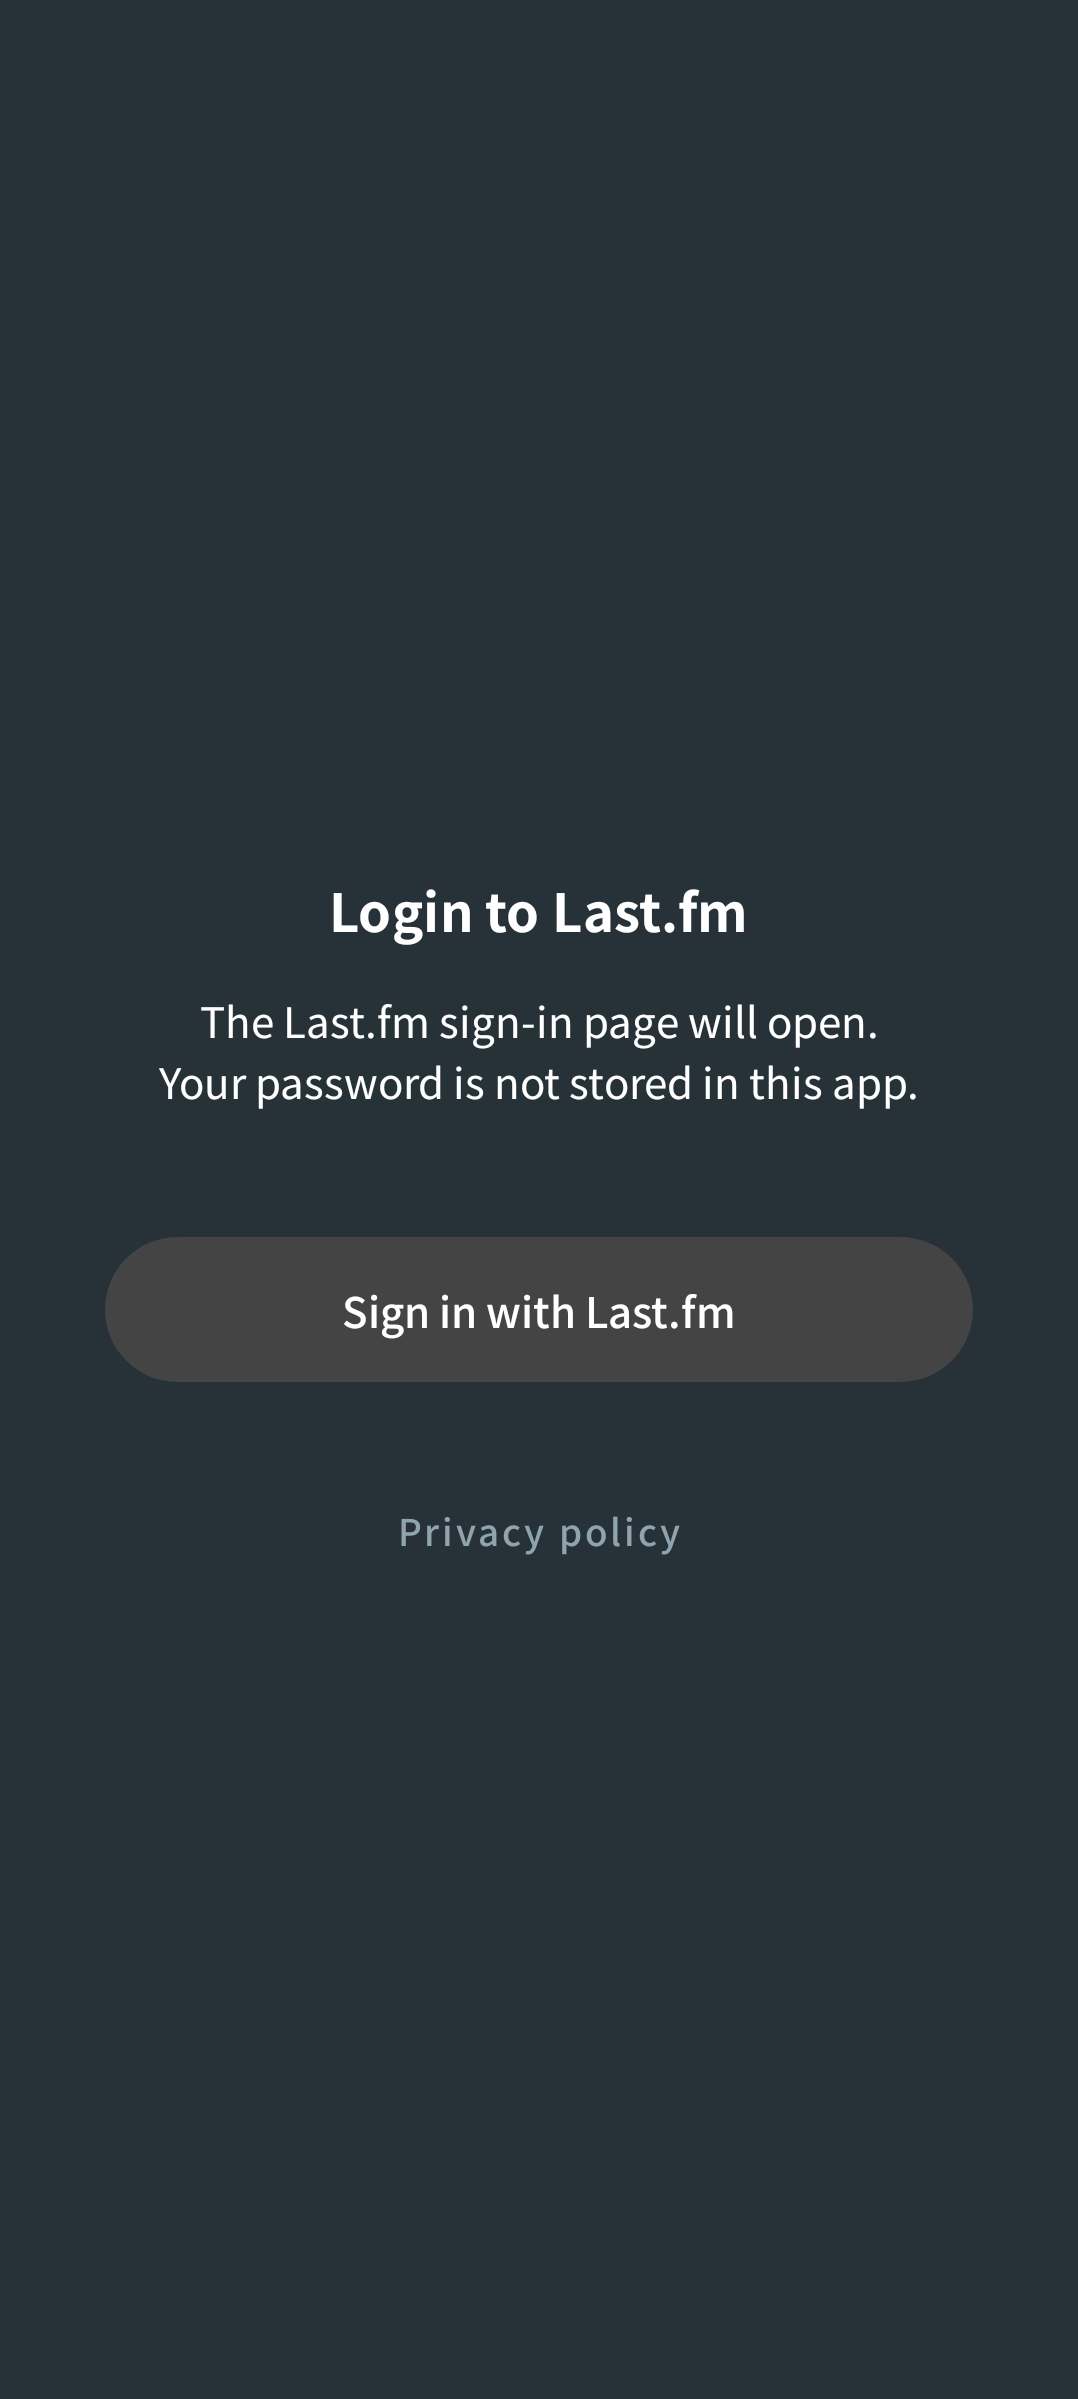
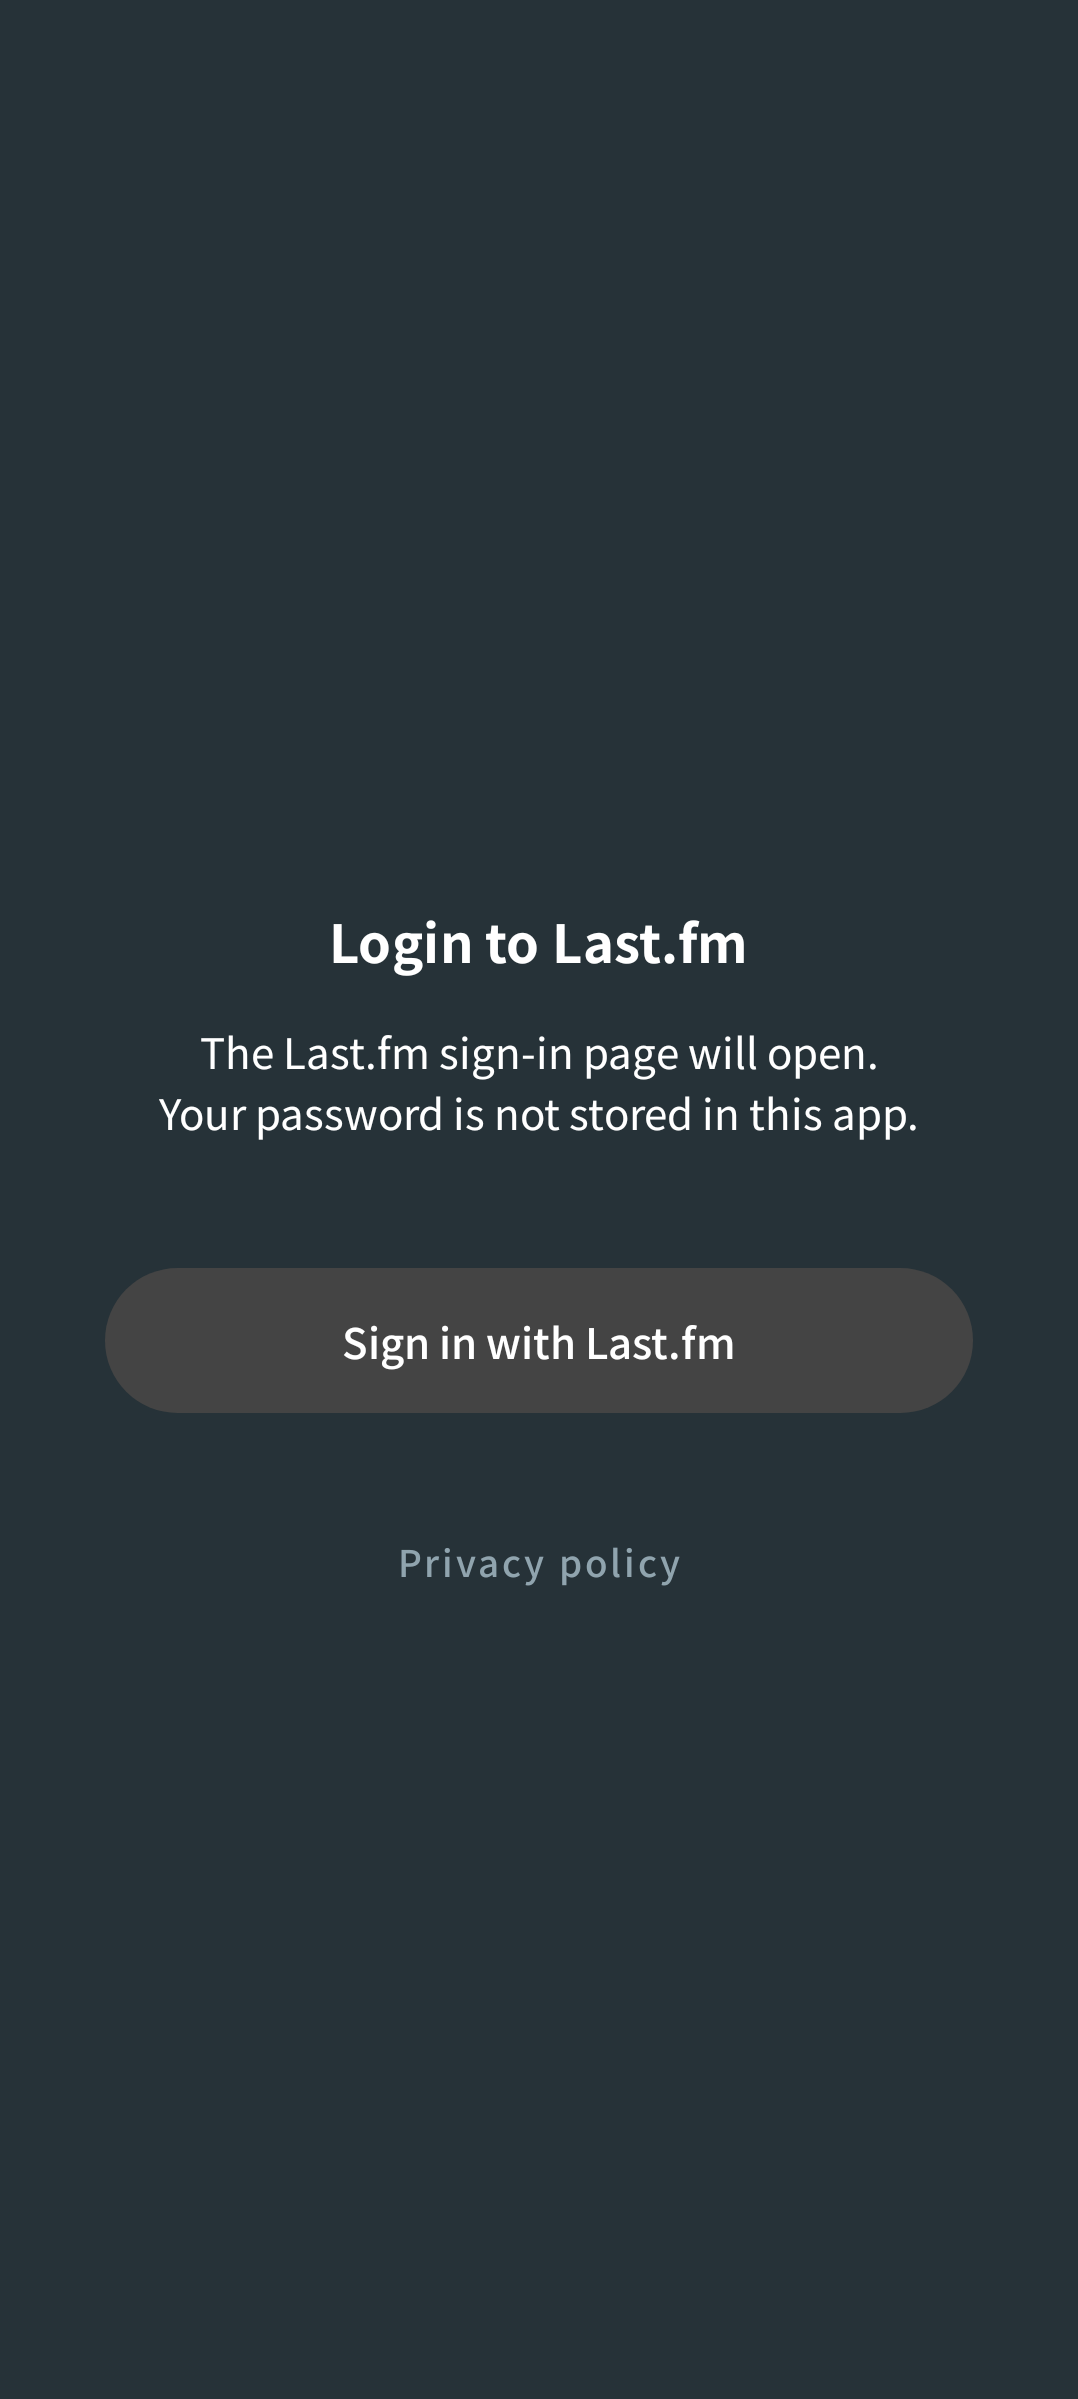
feat(auth): dim LoginScreen behind the Partial Custom Tab
- Add LoginUiState.isWebAuthOpen, set by onWebAuthOpened before the
  Custom Tab is launched and cleared by any launcher result, and draw a
  32% black scrim over LoginScreen while it is true. Chrome does not dim
  the app behind a fixed-height Partial Custom Tab, so the strip above
  the sheet otherwise looks like a rendering glitch.
- Add LastFmWebAuthResult.Closed and emit it from
  CustomTabsWebAuthLauncher's ActivityResult callback when the tab
  finishes, so the scrim is removed both on dismiss and after the App
  Link re-enters MainActivity.
- Move the 24dp top padding from authGraph into LoginScreen so the scrim
  root reaches the top edge of the window; re-record the login goldens
  accordingly and add login_screen_web_auth_open.png.
- Cover the scrim state in LoginViewModelSpec, the Closed result in
  CustomTabsWebAuthLauncherTest and the dimmed layout in LoginScreenTest.
- Describe the scrim and the Closed result in DESIGN.md.

Changed region(s): [[0.0918, 0.3702, 0.9184, 0.5861], [0.5204, 0.6169, 0.6122, 0.6786], [0.3673, 0.6169, 0.4592, 0.6786]]

diff --git a/feature/auth/src/test/java/com/mataku/scrobscrob/auth/ui/viewmodel/LoginViewModelSpec.kt b/feature/auth/src/test/java/com/mataku/scrobscrob/auth/ui/viewmodel/LoginViewModelSpec.kt
@@ -6,6 +6,7 @@ import com.mataku.scrobscrob.data.repository.SessionRepository
 import com.mataku.scrobscrob.test_helper.unit.CoroutinesListener
 import io.kotest.core.spec.style.DescribeSpec
 import io.kotest.matchers.booleans.shouldBeFalse
+import io.kotest.matchers.booleans.shouldBeTrue
 import io.kotest.matchers.collections.shouldBeEmpty
 import io.kotest.matchers.shouldBe
 import io.mockk.coEvery
@@ -93,6 +94,45 @@ class LoginViewModelSpec : DescribeSpec({
       viewModel.onWebAuthResult(LastFmWebAuthResult.Failed)
       viewModel.uiState.value.events shouldBe listOf(LoginViewModel.UiEvent.LoginFailed)
       coVerify(exactly = 0) { repo.authorize(any()) }
+    }
+  }
+
+  describe("web auth scrim") {
+    it("is hidden initially") {
+      val viewModel = LoginViewModel(repository(), WebAuthCallbackChannel())
+      viewModel.uiState.value.isWebAuthOpen.shouldBeFalse()
+    }
+
+    it("shows while the web auth is open") {
+      val viewModel = LoginViewModel(repository(), WebAuthCallbackChannel())
+      viewModel.onWebAuthOpened()
+      viewModel.uiState.value.isWebAuthOpen.shouldBeTrue()
+    }
+
+    it("hides when the web auth is closed without a token") {
+      val viewModel = LoginViewModel(repository(), WebAuthCallbackChannel())
+      viewModel.onWebAuthOpened()
+      viewModel.onWebAuthResult(LastFmWebAuthResult.Closed)
+      viewModel.uiState.value.let {
+        it.isWebAuthOpen.shouldBeFalse()
+        it.events.shouldBeEmpty()
+      }
+    }
+
+    it("hides when the web auth failed to launch") {
+      val viewModel = LoginViewModel(repository(), WebAuthCallbackChannel())
+      viewModel.onWebAuthOpened()
+      viewModel.onWebAuthResult(LastFmWebAuthResult.Failed)
+      viewModel.uiState.value.isWebAuthOpen.shouldBeFalse()
+    }
+
+    it("hides when the web auth succeeded") {
+      val repo = repository()
+      coEvery { repo.authorize(token) } returns flowOf(Unit)
+      val viewModel = LoginViewModel(repo, WebAuthCallbackChannel())
+      viewModel.onWebAuthOpened()
+      viewModel.onWebAuthResult(LastFmWebAuthResult.Success(token))
+      viewModel.uiState.value.isWebAuthOpen.shouldBeFalse()
     }
   }
 

diff --git a/feature/auth/src/test/java/com/mataku/scrobscrob/auth/webauth/CustomTabsWebAuthLauncherTest.kt b/feature/auth/src/test/java/com/mataku/scrobscrob/auth/webauth/CustomTabsWebAuthLauncherTest.kt
@@ -1,7 +1,8 @@
 package com.mataku.scrobscrob.auth.webauth
 
 import androidx.browser.customtabs.CustomTabsIntent
-import androidx.compose.ui.test.junit4.v2.createComposeRule
+import androidx.activity.ComponentActivity
+import androidx.compose.ui.test.junit4.v2.createAndroidComposeRule
 import androidx.test.core.app.ApplicationProvider
 import androidx.test.ext.junit.runners.AndroidJUnit4
 import io.kotest.matchers.collections.shouldBeEmpty
@@ -12,12 +13,13 @@ import org.junit.Rule
 import org.junit.Test
 import org.junit.runner.RunWith
 import org.robolectric.Shadows.shadowOf
+import android.app.Activity
 import android.app.Application
 
 @RunWith(AndroidJUnit4::class)
 class CustomTabsWebAuthLauncherTest {
   @get:Rule
-  val composeTestRule = createComposeRule()
+  val composeTestRule = createAndroidComposeRule<ComponentActivity>()
 
   private val url = "https://www.last.fm/api/auth/?api_key=key&cb=cb"
 
@@ -40,6 +42,23 @@ class CustomTabsWebAuthLauncherTest {
     started.hasExtra(CustomTabsIntent.EXTRA_SESSION) shouldBe true
     started.getIntExtra(CustomTabsIntent.EXTRA_INITIAL_ACTIVITY_HEIGHT_PX, 0) shouldBeGreaterThan 0
     results.shouldBeEmpty()
+  }
+
+  @Test
+  fun launch_reportsClosedWhenTheCustomTabFinishes() {
+    val results = mutableListOf<LastFmWebAuthResult>()
+    lateinit var launch: (String) -> Unit
+    composeTestRule.setContent {
+      launch = CustomTabsWebAuthLauncher().rememberLaunch(onResult = results::add)
+    }
+
+    composeTestRule.runOnUiThread { launch(url) }
+    val started = shadowOf(composeTestRule.activity).nextStartedActivityForResult.intent
+    composeTestRule.runOnUiThread {
+      shadowOf(composeTestRule.activity).receiveResult(started, Activity.RESULT_CANCELED, null)
+    }
+
+    results shouldBe listOf(LastFmWebAuthResult.Closed)
   }
 
   @Test

diff --git a/feature/auth/src/main/java/com/mataku/scrobscrob/auth/ui/screen/LoginScreen.kt b/feature/auth/src/main/java/com/mataku/scrobscrob/auth/ui/screen/LoginScreen.kt
@@ -1,7 +1,11 @@
 package com.mataku.scrobscrob.auth.ui.screen
 
+import androidx.compose.animation.AnimatedVisibility
+import androidx.compose.animation.fadeIn
+import androidx.compose.animation.fadeOut
 import androidx.compose.foundation.background
 import androidx.compose.foundation.layout.Arrangement
+import androidx.compose.foundation.layout.Box
 import androidx.compose.foundation.layout.Column
 import androidx.compose.foundation.layout.PaddingValues
 import androidx.compose.foundation.layout.Spacer
@@ -70,14 +74,20 @@ internal fun LoginScreen(
       viewModel.popEvent(it)
     }
   }
-  LoginContent(
-    isLoading = uiState.isLoading,
-    onSignInTap = {
-      uiState.webAuthUrl?.let(launchWebAuth)
-    },
-    onPrivacyPolicyTap = navigateToPrivacyPolicy,
-    modifier = modifier
-  )
+  Box(modifier = modifier.fillMaxSize()) {
+    LoginContent(
+      isLoading = uiState.isLoading,
+      onSignInTap = {
+        uiState.webAuthUrl?.let { url ->
+          viewModel.onWebAuthOpened()
+          launchWebAuth(url)
+        }
+      },
+      onPrivacyPolicyTap = navigateToPrivacyPolicy,
+      modifier = Modifier.padding(top = 24.dp)
+    )
+    WebAuthScrim(visible = uiState.isWebAuthOpen)
+  }
 }
 
 @Composable
@@ -151,6 +161,27 @@ private fun LoginContent(
     }
   }
 }
+
+@Composable
+private fun WebAuthScrim(
+  visible: Boolean,
+  modifier: Modifier = Modifier
+) {
+  AnimatedVisibility(
+    visible = visible,
+    enter = fadeIn(),
+    exit = fadeOut(),
+    modifier = modifier
+  ) {
+    Box(
+      modifier = Modifier
+        .fillMaxSize()
+        .background(color = Color.Black.copy(alpha = SCRIM_ALPHA))
+    )
+  }
+}
+
+private const val SCRIM_ALPHA = 0.32f
 
 @Preview(showBackground = true)
 @Composable

diff --git a/feature/auth/src/main/java/com/mataku/scrobscrob/auth/ui/viewmodel/LoginViewModel.kt b/feature/auth/src/main/java/com/mataku/scrobscrob/auth/ui/viewmodel/LoginViewModel.kt
@@ -57,9 +57,15 @@ class LoginViewModel(
     }
   }
 
+  fun onWebAuthOpened() {
+    uiState.update { it.copy(isWebAuthOpen = true) }
+  }
+
   fun onWebAuthResult(result: LastFmWebAuthResult) {
+    uiState.update { it.copy(isWebAuthOpen = false) }
     when (result) {
       is LastFmWebAuthResult.Success -> authorize(result.token)
+      LastFmWebAuthResult.Closed -> Unit
       LastFmWebAuthResult.Failed -> uiState.update { state ->
         state.copy(events = (state.events + UiEvent.LoginFailed).toImmutableList())
       }
@@ -104,12 +110,14 @@ class LoginViewModel(
   @Immutable
   data class LoginUiState(
     val isLoading: Boolean,
+    val isWebAuthOpen: Boolean,
     val webAuthUrl: String?,
     val events: ImmutableList<UiEvent>,
   ) {
     companion object {
       fun initialize() = LoginUiState(
         isLoading = false,
+        isWebAuthOpen = false,
         webAuthUrl = null,
         events = persistentListOf(),
       )

diff --git a/feature/auth/src/main/java/com/mataku/scrobscrob/auth/ui/navigation/AuthNavigation.kt b/feature/auth/src/main/java/com/mataku/scrobscrob/auth/ui/navigation/AuthNavigation.kt
@@ -1,8 +1,5 @@
 package com.mataku.scrobscrob.auth.ui.navigation
 
-import androidx.compose.foundation.layout.padding
-import androidx.compose.ui.Modifier
-import androidx.compose.ui.unit.dp
 import com.mataku.scrobscrob.auth.ui.screen.LoginScreen
 import com.mataku.scrobscrob.auth.ui.viewmodel.LoginViewModel
 import com.mataku.scrobscrob.auth.webauth.LastFmWebAuthLauncher
@@ -18,7 +15,6 @@ fun SunsetNavBuilder.authGraph(webAuthLauncher: LastFmWebAuthLauncher) {
       webAuthLauncher = webAuthLauncher,
       navigateToHomeFromAuth = { /* Auth completion is handled by :app's SunsetMainScreen via the isAuthenticated switch */ },
       navigateToPrivacyPolicy = { navigate(PrivacyPolicyKey) },
-      modifier = Modifier.padding(top = 24.dp),
     )
   }
 }

diff --git a/feature/auth/src/test/java/com/mataku/scrobscrob/auth/ui/screen/LoginScreenTest.kt b/feature/auth/src/test/java/com/mataku/scrobscrob/auth/ui/screen/LoginScreenTest.kt
@@ -72,6 +72,23 @@ class LoginScreenTest {
   }
 
   @Test
+  fun layout_webAuthOpen() {
+    val viewModel = viewModel().apply { onWebAuthOpened() }
+    composeTestRule.captureScreenshot(
+      appTheme = AppTheme.LIGHT,
+      content = {
+        LoginScreen(
+          viewModel = viewModel,
+          webAuthLauncher = launcher,
+          navigateToHomeFromAuth = {},
+          navigateToPrivacyPolicy = {}
+        )
+      },
+      fileName = "login_screen_web_auth_open.png"
+    )
+  }
+
+  @Test
   fun layout_tablet() {
     composeTestRule.captureScreenshot(
       device = RobolectricDeviceQualifiers.PixelTablet,

diff --git a/feature/auth/src/main/java/com/mataku/scrobscrob/auth/webauth/CustomTabsWebAuthLauncher.kt b/feature/auth/src/main/java/com/mataku/scrobscrob/auth/webauth/CustomTabsWebAuthLauncher.kt
@@ -19,7 +19,9 @@ class CustomTabsWebAuthLauncher : LastFmWebAuthLauncher {
     val currentOnResult by rememberUpdatedState(onResult)
     val activityLauncher = rememberLauncherForActivityResult(
       ActivityResultContracts.StartActivityForResult()
-    ) {}
+    ) {
+      currentOnResult(LastFmWebAuthResult.Closed)
+    }
     return remember(activityLauncher, containerHeightPx) {
       { url ->
         runCatching {

diff --git a/feature/auth/src/main/java/com/mataku/scrobscrob/auth/webauth/LastFmWebAuthResult.kt b/feature/auth/src/main/java/com/mataku/scrobscrob/auth/webauth/LastFmWebAuthResult.kt
@@ -2,5 +2,6 @@ package com.mataku.scrobscrob.auth.webauth
 
 sealed interface LastFmWebAuthResult {
   data class Success(val token: String) : LastFmWebAuthResult
+  data object Closed : LastFmWebAuthResult
   data object Failed : LastFmWebAuthResult
 }

diff --git a/DESIGN.md b/DESIGN.md
@@ -613,7 +613,7 @@ Two delivery paths converge on the same ViewModel entry point:
 | App Link callback | Last.fm redirects to `sunsetscrob.mataku.com/auth/lastfm` | `MainActivity` (`singleTask`, `onNewIntent`) parses the intent with `LastFmWebAuth.tokenFromCallback` and pushes the token into `WebAuthCallbackChannel`, which `LoginViewModel` collects; `singleTask` also clears the Custom Tab off the task |
 | Launcher result | The Custom Tab could not be started at all (no browser), or the E2E fake | `CustomTabsWebAuthLauncher.rememberLaunch` → `LoginViewModel.onWebAuthResult` (`Failed` shows the login error; `Success` is only produced by `FakeWebAuthLauncher`) |
 
-Closing the sheet without authorizing delivers nothing: the launcher has no cancel signal, and the login screen simply stays put. Auth Tab (`AuthTabIntent`) was dropped because it has no partial-height API.
+While the sheet is up, `LoginScreen` dims itself with a 32% black scrim (`LoginUiState.isWebAuthOpen`, set by `onWebAuthOpened` before launching), because Chrome does not dim the app behind a fixed-height Partial Custom Tab and the undimmed strip above the sheet otherwise reads as a rendering glitch. The scrim is cleared by any launcher result: `Closed` (the tab finished, delivered through the `ActivityResultLauncher` whether the user dismissed it or the App Link re-entered `MainActivity`), `Failed`, or `Success`. Closing the sheet without authorizing therefore only removes the scrim; the login screen stays put. Auth Tab (`AuthTabIntent`) was dropped because it has no partial-height API.
 
 `WebAuthCallbackChannel` is a conflated, consume-once channel so a token is exchanged exactly once even if the Activity is recreated. `MainActivity` only reads the launch intent when `savedInstanceState == null` for the same reason.
 
